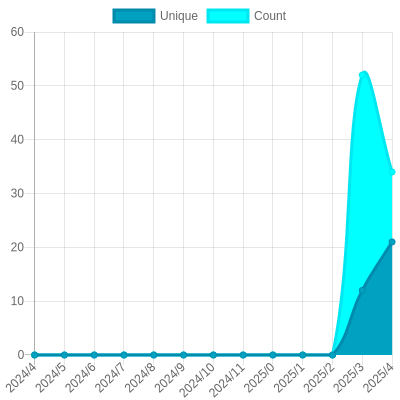
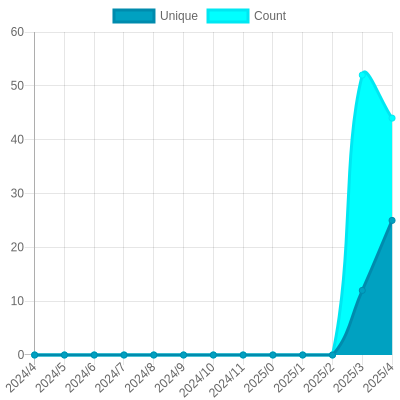
Update views

diff --git a/README.md b/README.md
@@ -26,13 +26,13 @@ The project created and maintained by [gayanvoice](https://github.com/gayanvoice
 			</a>
 		</td>
 		<td>
-			2024/5/7 8:42 PM UTC
+			2024/5/9 12:00 AM UTC
 		</td>
 		<td>
-			1
+			2
 		</td>
 		<td>
-			<img alt="Response time graph" src="https://github.com/entelecheia/metrics/raw/master/graph/535561204/small/year.png" height="20"> 9
+			<img alt="Response time graph" src="https://github.com/entelecheia/metrics/raw/master/graph/535561204/small/year.png" height="20"> 18
 		</td>
 	</tr>
 	<tr>
@@ -42,13 +42,13 @@ The project created and maintained by [gayanvoice](https://github.com/gayanvoice
 			</a>
 		</td>
 		<td>
-			2024/5/7 12:00 AM UTC
+			2024/5/9 12:00 AM UTC
 		</td>
 		<td>
-			8
+			9
 		</td>
 		<td>
-			<img alt="Response time graph" src="https://github.com/entelecheia/metrics/raw/master/graph/607985556/small/year.png" height="20"> 44
+			<img alt="Response time graph" src="https://github.com/entelecheia/metrics/raw/master/graph/607985556/small/year.png" height="20"> 45
 		</td>
 	</tr>
 	<tr>
@@ -58,18 +58,18 @@ The project created and maintained by [gayanvoice](https://github.com/gayanvoice
 			</a>
 		</td>
 		<td>
-			2024/5/7 12:00 AM UTC
+			2024/5/9 8:42 PM UTC
 		</td>
 		<td>
-			33
+			36
 		</td>
 		<td>
-			<img alt="Response time graph" src="https://github.com/entelecheia/metrics/raw/master/graph/124036623/small/year.png" height="20"> 86
+			<img alt="Response time graph" src="https://github.com/entelecheia/metrics/raw/master/graph/124036623/small/year.png" height="20"> 89
 		</td>
 	</tr>
 </table>
 
-<small><i>Last updated on 2024/5/10 8:42 PM UTC</i></small>
+<small><i>Last updated on 2024/5/11 5:07 PM UTC</i></small>
 
 ## ✂Copy and 📋 Paste
 ### Total Views Badge

diff --git a/readme/124036623/year.md b/readme/124036623/year.md
@@ -23,10 +23,10 @@
 			<code>2024/5/1</code>
 		</td>
 		<td>
-			<code>21</code>
+			<code>25</code>
 		</td>
 		<td>
-			<code>34</code>
+			<code>44</code>
 		</td>
 	</tr>
 	<tr>
@@ -164,7 +164,7 @@
 </table>
 
 </details>
-<small><i>Last updated on 2024/5/10 8:42 PM UTC</i></small>
+<small><i>Last updated on 2024/5/11 5:07 PM UTC</i></small>
 
 ## ✂Copy and 📋 Paste
 ### SVG Badge

diff --git a/readme/535561204/year.md b/readme/535561204/year.md
@@ -164,7 +164,7 @@
 </table>
 
 </details>
-<small><i>Last updated on 2024/5/10 8:42 PM UTC</i></small>
+<small><i>Last updated on 2024/5/11 5:07 PM UTC</i></small>
 
 ## ✂Copy and 📋 Paste
 ### SVG Badge

diff --git a/readme/607985556/year.md b/readme/607985556/year.md
@@ -164,7 +164,7 @@
 </table>
 
 </details>
-<small><i>Last updated on 2024/5/10 8:42 PM UTC</i></small>
+<small><i>Last updated on 2024/5/11 5:07 PM UTC</i></small>
 
 ## ✂Copy and 📋 Paste
 ### SVG Badge
